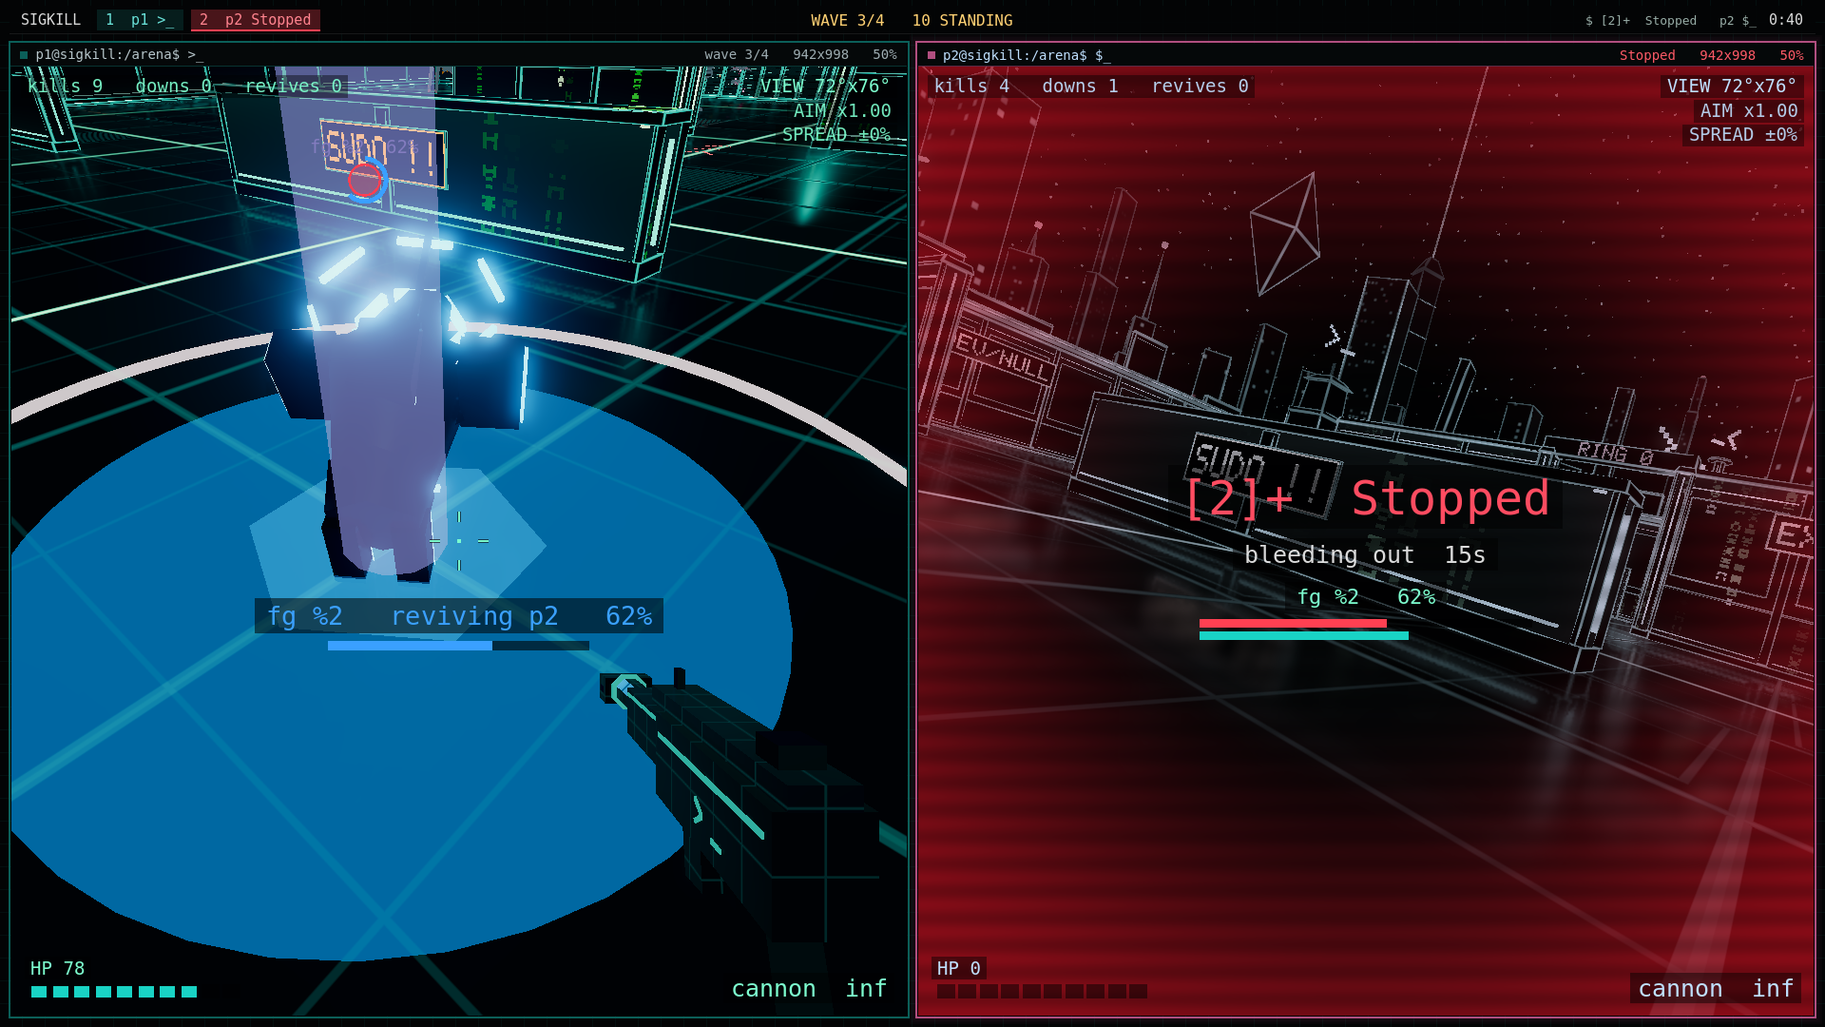
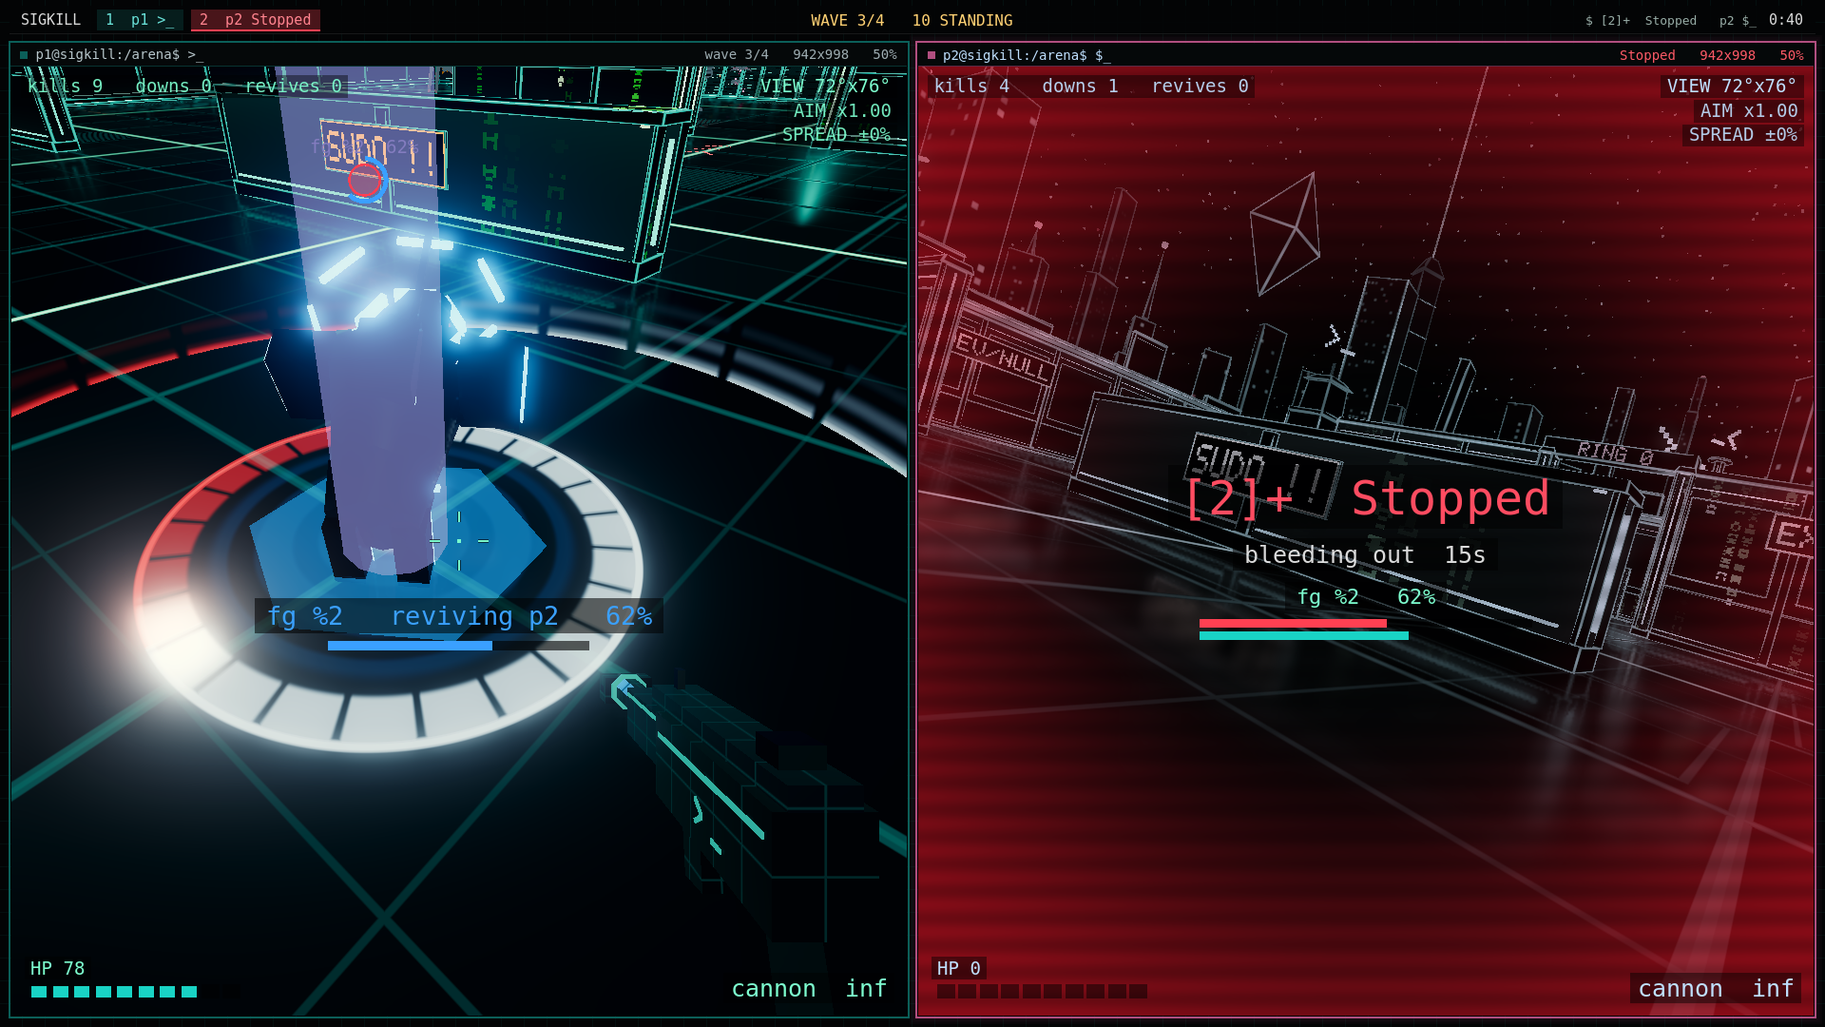
P2 item 4: W6's revive ring remade: segments lit round, a curtain of light, red while nobody is on it
WHAT: scripts/coop/coop_body.gd: the revive's growing disc of rings (a flat floor of colour from inside it) becomes a band of 24 segments round the ring's edge, lit round clockwise from the body's front as far as the revive has come in the body's bright light, the leading segment flaring white, the rest pulsing in the down's red; a crisp unbroken rim on the band's edge; a low curtain of light (0.5 m) rising off the ring, stripes climbing it, its foot lit hard as a lip, lit over the same arc. Inside, the floor stays nearly dark: a small core under the body, faint rings running in only while a partner revives. Both meshes are the ring's full size always and stand at 0%. Step 70 (tests/coop_test.gd): W7's fold-in check rewritten for the new ring (segments, climbing curtain, never scaled, progress shown matching the revive), plus a check that an idle ring still stands, full size, lit nowhere. Re-shot on the private display, demo data: w6-revive, w6-down.
WHY: the producer's P2 list, item 4: the revive disc was flat and dull; it now has shape, motion and a fill that reads at a glance, near, far or standing in it.
DECIDED: segments and a curtain over a growing disc; the curtain's lip and the band's rim added after the first pass read weaker from 11 m than the old torus; lit light at 0.7 so bloom keeps the player's colour.

LR-T: p2, polish, w6, coop, revive, ring, shader
LR-D: coop, shaders, tests, docs
LR-K: p2-item-4, revive-ring, coop-down

Changed region(s): [[0.0, 0.3667, 0.4375, 0.9472], [0.25, 0.275, 0.5, 0.4889], [0.0, 0.3056, 0.1875, 0.4278]]

diff --git a/README.md b/README.md
@@ -154,7 +154,7 @@
     - **The HUD:** a VOICE chip under the round's lines (listening, with a ripple of bars, and the honest line: lines arrive a few seconds after they are said; or off, and why), and a toast for each command heard, in the colour of what it sets off, with what came of it. It shows a command's name, never a word of what was said: no line is kept, logged, shown or sent anywhere, your AI included. Talk from a TV or other media is skipped, and a line that begins "Larry, tell" is never a command.
     - **Try it with no transcript program:** Esc, **Voice commands** plays the arena with a made-up feed of lines, so you can watch it work.
   - **the first polish pass (P1):** the cover drone keeps its recharge through an arena reload (R no longer hands a fresh one straight back), and a match started from a mission, the folder map, the theme shift, keybind gunplay or the packet tracer now reloads into the plain arena instead of leaving its district and daemons standing under the match.
-  - **the second polish pass (P2), under way:** one item at a time, what you see first: this page's stale tags gone; W3's Latte zombie outlined in the theme's red under a light theme, so it no longer melts into the paper; the packet tracer's banners stacked at the top of the screen, each on its own plate and two at most, so INTERCEPTED never sits over the man in the middle you are meant to shoot; then, W6's revive disc and M7's bolts; then the relay's code for every protocol since 10, proven on this machine only (nothing goes live until Fred says so).
+  - **the second polish pass (P2), under way:** one item at a time, what you see first: this page's stale tags gone; W3's Latte zombie outlined in the theme's red under a light theme, so it no longer melts into the paper; the packet tracer's banners stacked at the top of the screen, each on its own plate and two at most, so INTERCEPTED never sits over the man in the middle you are meant to shoot; the co-op revive ring remade as a ring of segments with a low curtain of light, lit round as the revive fills and red while nobody is on it, readable from across the arena or standing in it; then, W6's revive disc and M7's bolts; then the relay's code for every protocol since 10, proven on this machine only (nothing goes live until Fred says so).
   - **the ruins (C36):** the places the missions happen in, all made in code. Decaying server-farm and filesystem ruins:
     - rack towers toppling and half sunk into the abyss, their status lights dying;
     - cut cables swinging and sparking, cracked floors glowing from below, holes into the void;
@@ -2564,7 +2564,7 @@ Status from `git log`. Hashes are the commits that finished each chunk.
 | Website, teaser and docs | T1 the teaser's footage: real in-game clips on demo data, rendered with Movie Maker by `tools/trailer_capture.sh` ([docs/TRAILER.md](docs/TRAILER.md); `b2392e8`, `f17ae86`, `bb82508`, `1087887`) · the 70 second edit and its soundtrack (the producer's) for playsigkill.com · D1 the PRD rewritten as the entire, current PRD (v0.3), this README's "Where we are", three community credits (`e1e658d`, `e79b9e5`) | 🟡 T1 footage and D1 done; the edit, the music and the site are the producer's |
 | M5 Your machine is the world | Filesystem maps, process enemies, theme levels, keybind gunplay, voice commands, packet tracer arena, split-screen co-op · C43 Audit Trail visor, built (`f6d5f8d`) · C44 the in-game credits roll, built (`861b015`, `4d3f012`) · W1 live process enemies, built (`3e74f6c`, `02d3441`) · W2 to W4 built · W5 the packet tracer arena, built (`6cf0855`, `a33539a`, `defffa7`) · W6 split-screen co-op, built (`05e9543`, `9de06b0`, `1357bf6`) · W7 voice commands, built (`3bc895a`, `900480c`, `dc81af9`, `102616f`) | 🟢 C43, C44 and W1 to W7 done: all of M5 |
 | Polish | P1 the first polish pass after M5: the cover drone's recharge kept through a reload, a match started from a mission or a world mode reloading into the plain arena, step 72, this README brought up to date (`3eae2f6`, `82f8237`, `a589d0a` and the docs after them) | ✅ Done |
-| Polish | P2 the second polish pass: the README's stale tags, W3's Latte zombie, W5's banners, W6's revive disc, M7's bolts and flash, the relay's code for protocols 10 to 19 (loopback only), the most visible small known issues | 🟡 In progress: the README, the Latte zombie and the packet tracer's banners done |
+| Polish | P2 the second polish pass: the README's stale tags, W3's Latte zombie, W5's banners, W6's revive disc, M7's bolts and flash, the relay's code for protocols 10 to 19 (loopback only), the most visible small known issues | 🟡 In progress: the README, the Latte zombie, the packet tracer's banners and the revive ring done |
 | M6 Story campaign | C34 story bible, locked by Fred on 2026-10-30 ([docs/STORY.md](docs/STORY.md), `a80a229`, `431e41a`) · C38 the opener's first 35 seconds on demo data: the fake crash, the fake terminal, the typed lines (`bda0ecc`, `ee41bbd`, `0f94ca7`) · C39 the opener's real-data reader, opt-in and read-only, and wide characters (`8c74319`, `a349d1a`) · C40 the shrink-away reveal and the fall through your directory tree as a city (`e6d0b73`, `2d4466e`) · C41 the AI link and the copy of you named `~`: the HUD alive, your AI live or the scripted guide, the copy walking out of the pit wearing your user name (`7106cec`, `14c7c2b`, `59095b3`) · C42 the `kill -9` forge, the first kill, the title slam, the score, the skip logic and the first launch, and the daemons' voices (`77254c0`, `e04dffe`, `e31bd68`, `ffa5eaa`) · C35 the mission framework: missions as data, the runner, the objective HUD, the Missions screen, the weapon handout and the saves, mission 1 as a first cut (`a724aae`, `aee2e1c`) · C36 the cyberpunk ruins art kit: seeded districts of rack towers, monoliths, cables and signs, three registers that change the world, mission 1 standing in its ruins (`31ef6f0`, `0650508`, `63b99bc`) · C37 mission 1, `login`, end to end: its own finite daemons out of spawn vents, the pack and its elite, the white ICE wall, the breach and the drop into the rain, the gate on what the campaign has handed over, checkpoints (`acfe8b4`, `0ace580`, `fa6e436`) · M2 mission 2, `defunct`, end to end in its own district, the closed terminals: zombies asleep in the rain, the queue at a dead storefront, the parent sealed behind its guard and every zombie threaded to it, the reap; the C37 leftovers (`4958fcd`, `76ddd67`, `149cec5`, `a11c96b`, `f2d5ba6`) · M3 mission 3, `while true`, end to end in its own district, the cache lines: a field of walls that rewrite themselves, runaway swarms and the fork storm, grep and pipe handed over, the loop's four cores forking as the cache fills, code-rain vision unlocked for the beat that needs it, the loop broken and the rain stopped (`6a63d1b`, `f4615bd`, `5a42477`, `042d8a0`; the gate's two test-only fixes `1949e4c`, `8251281`) · M4 mission 4, `permission denied`, end to end in its own district, the records vault: a pristine guarded hall, its own white and hunter ICE through the director, the ICEbreakers and chmod 000 taught, the record with its PID redacted, the escalation and the lights' stutter (`b7f8e4d`, `631d7a4`, `57fcc23`, `721f2a8`, `9fb1433`, `2f94a4d`, `d3ecf13`, `3f90a61`) · M5, M6 and M7: missions 5 to 7, the whole campaign (`310122c`, `452b7ac`, `8457dd1`, `ab556ed`, `9cf6be1`) | 🟢 C34 locked; the opener done (C38 to C42); all seven missions done (C35 to C37, M2 to M7) |
 
 Before M0 came the scaffold (`d086489`), and the decision that the player's AI is the Omarchy default agent landed as its own docs commit (`43b1f74`).
@@ -2898,10 +2898,10 @@ Real in-game captures, demo data only (A1, A2b, A3, A4, C27b, C28, A5, I1, I2, I
   </tr>
   <tr>
     <td align="center" width="50%"><img src="docs/media/w6-trade.png" alt="Player 1's tile narrow at 35% with VIEW 54 degrees, AIM x1.35, SPREAD -45%; player 2's wide at 65% with VIEW 87 degrees, AIM x0.80, SPREAD +25%"><br><em>The trade: a smaller tile aims faster and steadier, a bigger one sees more.</em></td>
-    <td align="center" width="50%"><img src="docs/media/w6-down.png" alt="Player 2's tile drained to grey and red with [2]+ Stopped and bleeding out; in player 1's tile a red beacon rises over player 2 across the floor, a ring of light round them"><br><em>[2]+ Stopped.</em></td>
+    <td align="center" width="50%"><img src="docs/media/w6-down.png" alt="Player 2's tile drained to grey and red with [2]+ Stopped and bleeding out; in player 1's tile a red beacon rises over player 2 across the floor, a ring of red segments round them, its edge standing up off the floor"><br><em>[2]+ Stopped.</em></td>
   </tr>
   <tr>
-    <td align="center" width="50%"><img src="docs/media/w6-revive.png" alt="Player 1 standing over the downed player 2, the ring under them filling, fg %2 and the revive's progress on the screen"><br><em>fg %2: the partner standing close brings them back.</em></td>
+    <td align="center" width="50%"><img src="docs/media/w6-revive.png" alt="Player 1 standing in the downed player 2's revive ring: its segments lit round in player 2's light as far as the revive has come, the rest still red, a crisp rim and a low curtain of light rising off it, fg %2 and the progress on the screen"><br><em>fg %2: the partner standing close brings them back.</em></td>
     <td align="center" width="50%"><img src="docs/media/w6-boss.png" alt="The last wave: the pegged core hanging over the arena, both players firing at it, its bar in the top bar"><br><em>The boss wave, for two.</em></td>
   </tr>
   <tr>

diff --git a/docs/PRD.md b/docs/PRD.md
@@ -237,7 +237,7 @@ The guide is the player's own AI: the coding agent they already picked in Omarch
     - **Two players, one machine:** player 1 is the game's own player, keyboard and mouse, every key as ever (only the right stick is off for it while the mode runs: the pad is player 2's). Player 2 is a second player made by the mode (scripts/coop/coop_hunt.gd; scenes/player.tscn in seat 2) reading only its own actions (scripts/coop/coop_input.gd), made in the input map as the mode begins and taken out as it ends: a gamepad (any pad: the sticks move and look, RT fires, LT aims, A jumps, B slides, X reloads, Y and the d-pad change weapon) and a keyboard fallback on the numeric keypad (8 4 5 6 move, 7 9 turn, / * look up and down, 0 fires, Enter jumps, 1 next weapon, 2 reload, 3 aim). The tests drive player 2 with simulated events; no real pad is ever needed.
     - **The tiles** (scripts/coop/coop_screen.gd), the game's own, inside its one window: no compositor call, no window manager, no new OS window. Two SubViewports draw the arena's one World3D, each through a camera that takes its player's camera every frame (place, look, field of view, the shot jolt), the window's own 3D view off while the split stands (the world drawn twice, never three times). Styled as Omarchy's Hyprland draws windows: a 10 px outer gap and an 8 px gap between them (at 1080 lines), a thin border on each (the active tile's, the last to resize or flip, glowing in its player's colour, the other's dim; a downed player's pulsing red), a terminal-style title bar on each (`p1@sigkill:/arena$ >_` with its cursor blinking, the wave or `Stopped`, the tile's size in pixels and its share), and a bar across the top as a desktop's bar (the two players as workspace pills, the wave and how many stand or the boss's bar, the run's last line of job control, the time).
     - **The trade:** each player grows or shrinks their own tile a step (7.5% of the room; `=` and `-` for player 1, RB and LB or the keypad's + and - for player 2), with a 1.2 s cooldown each, between 35% and 65%; either flips the split between side by side and stacked (`0`; Back or the keypad's .), with a 2 s cooldown the two share. A resize settles in 0.32 s with a small overshoot, a flip in 0.45 s, the tile washing in its player's colour and a swish. A tile is a window onto the world at the same zoom as the whole screen (its camera's vertical field the screen's over its share of the height), so a bigger tile sees more and a smaller less. The smaller pays back in aim: at 35% look speed x1.35 and spread and recoil x0.55; at 65% x0.80 and x1.25; even at 50% (linear between). Each tile shows its own: VIEW (degrees across and down), AIM, SPREAD.
-    - **Downs and revives:** a player's health at 0 is a down, not a death: `[2]+  Stopped` (bash's job control), the player cannot move or shoot, its view sinks to the floor and leans, its tile drains to a cold grey with a red pulse at the edges and rolling scanlines, its body falls to its knees and over, a ring of light (2.4 m) round it on the floor and a beacon of light rising through walls; the partner's tile marks it (through walls, clamped to the tile's edge, with the distance). The partner standing within 2.4 m for 2.6 s revives it (`fg %2`, `[2]  Continued`; the ring filling, the progress falling back at 0.8 a second while the partner steps away), back at 40 health, protected 1.5 s. Left 25 s, a downed player bleeds out: out (derezzed) until the wave ends. Both down or out at once: wiped, the run over. A wave cleared brings everyone back, full.
+    - **Downs and revives:** a player's health at 0 is a down, not a death: `[2]+  Stopped` (bash's job control), the player cannot move or shoot, its view sinks to the floor and leans, its tile drains to a cold grey with a red pulse at the edges and rolling scanlines, its body falls to its knees and over, a ring (2.4 m) round it on the floor, its segments red and a low curtain of light rising off it (P2), and a beacon of light rising through walls; the partner's tile marks it (through walls, clamped to the tile's edge, with the distance). The partner standing within 2.4 m for 2.6 s revives it (`fg %2`, `[2]  Continued`; the ring lighting round segment by segment in the body's light, P2, the progress falling back at 0.8 a second while the partner steps away), back at 40 health, protected 1.5 s. Left 25 s, a downed player bleeds out: out (derezzed) until the wave ends. Both down or out at once: wiped, the run over. A wave cleared brings everyone back, full.
     - **The run:** the arena's PvE hunt for two: four waves of the arena's kinds (rogue.d, zombies, runaways), each the solo wave's count times 1.6 rounded up (7, 10, 13, then the boss and 6), forking in at the floor's far spots, every one relentless; the last wave's boss a core the two of them have pegged (W1's pegged core, 900 health, hotter as it is hurt). A 4 s countdown before the first wave, a 5 s break between. The shared results card: each player's kills (each credited to the player whose hit took it down), downs, revives and accuracy (their own hits over their own shots), the waves and the time; Enter (or the pad's A) runs it again.
     - **The players' look** (scripts/coop/coop_body.gd), each its own figure so the two never read as copies, and neither as `~`'s (dark, the prompt lit red): player 1 teal (the player's own) with `>_`, slim, a high collar, light bars on its shoulders and two long coat tails swinging as it runs, its hexagon head pointy-top; player 2 azure (`#3aa0ff`; ICE, the one colour near it, stands down in co-op) with `$_`, broader, square pauldrons, a turning halo of six bars, a mast with a blinking tip. Both light-edged armour, a hex of their light on the floor, a small light of their own, a rifle along their aim, a name tag through walls. Each body on its own render layer, so its own tile never draws it; each player's held weapon model drawn only in its own tile.
     - **Co-op is weapons only:** the abilities stay off for both players (SIGSTOP would slow the one clock both share); the Audit Trail visor is player 1's (I), drawn in player 1's tile only (its HUD inside that tile, its lines on a layer only that tile draws). Player 2's kills count toward its own sudo count, never toward player 1's unlocks. The sound is heard from player 1's place (one pair of speakers).
@@ -685,7 +685,7 @@ Statuses are taken from `git log` (2026-11-02, after P1): **done**, **in progres
 | Chunk | What | Status | Commits |
 |---|---|---|---|
 | P1 | The first polish pass: the cheap player-facing known issues fixed where they break (the cover drone out when the arena reloads starts its recharge; a match started from a mission, the folder map, the theme shift, keybind gunplay or the packet tracer reloads into the plain arena, its district gone), each pinned by a check in step 72 (tests/polish_test.gd, 14 checks); the README brought up to date (the game as built, every status, flag and step); the rest of the known issues audited, each marked fixed or open with its reason (docs/DESIGN.md, State). | done | `3eae2f6`, `82f8237`, `a589d0a` and the docs after them |
-| P2 | The second polish pass, one item at a time, player-facing first: (1) the README's stale "new in" tags gone, every mode's try-it line checked; (2) W3's Latte zombie; (3) W5's INTERCEPTED banners; (4) W6's revive disc; (5) M7's bolts and refused-hit flash; (6) the relay code for protocols 10 to 19, proven on loopback only (code only: nothing deployed); (7) the most visible small known issues. | in progress: (1) to (3) done | see docs/DESIGN.md State, "P2 as built" |
+| P2 | The second polish pass, one item at a time, player-facing first: (1) the README's stale "new in" tags gone, every mode's try-it line checked; (2) W3's Latte zombie; (3) W5's INTERCEPTED banners; (4) W6's revive disc; (5) M7's bolts and refused-hit flash; (6) the relay code for protocols 10 to 19, proven on loopback only (code only: nothing deployed); (7) the most visible small known issues. | in progress: (1) to (4) done | see docs/DESIGN.md State, "P2 as built" |
 
 **M6 Story campaign** (5.6, 5.7). The opener chunks are built after C10 boot and C7 derezz exist.
 

diff --git a/docs/DESIGN.md b/docs/DESIGN.md
@@ -986,3 +986,5 @@ Native first-person shooter for Omarchy (Arch + Hyprland). You are the nixfred >
   - (3) W5's man-in-the-middle banners: the packet tracer's HUD (scripts/packets/packet_tracer_hud.gd) draws one banner stack at the top of the screen (from 16% down): the ride's own state first (INTERCEPTED while a packet is held, TIMEOUT with the burst's key, RST, BURST), then the event banner (a hop, a misroute, a lost packet, a retransmit) under it, each on its own plate, two at most, the second a step smaller; the same head is never stacked twice. Before it, the ride's line was drawn with no plate at 30% down, right over the man in the middle and its own label. The panel's ride line says HELD (INTERCEPTED is said once, on the stack), and a panel line too long for the panel is shrunk to fit (to 10 pt at the least) instead of cut off ("50% INTERCEP", "edge-b"). Pinned in step 69 (tests/packet_tracer_test.gd), beside the interception it needs: the stack's plates never over each other or the crosshair, and the ride line fitting whole. Re-shot: w5-mitm, w5-timeout, w5-lost and w5-stale (their banners moved); w5-ride, w5-drop and w5-960 show no banner and are unchanged.
     - Decided (ours): the checks for this item live in step 69, not step 73, because only that test plays the route up to a held packet; step 73 would have to play it again.
     - Decided (ours): a ride's TIMEOUT stays said twice on purpose: the world's label marks where the link will tear, a little ahead of the rider (W5), and the plate gives the countdown and the burst's key.
+  - (4) W6's revive ring (scripts/coop/coop_body.gd): remade from a disc of rings that grew from the middle with the revive (a flat floor of colour from inside it, W7's fold-in not enough) into one shape that reads at a glance: a band of 24 segments round the ring's edge on the floor, lit round clockwise from the body's front as far as the revive has come, in the body's bright light, the leading segment flaring white, the rest pulsing in the down's red; a crisp unbroken rim on the band's outer edge; a low curtain of light (0.5 m) rising from the ring, stripes climbing it and its foot lit hard as a lip, lit over the same arc. Inside the band the floor stays nearly dark: a small core under the body, and faint rings running in toward it only while a partner revives. Both meshes are the ring's full size always (only the light moves, so where to stand never changes) and stand at 0% too. Pinned in step 70 (tests/coop_test.gd): W7's fold-in check rewritten for it (the band's segments and the curtain's climbing stripes, the band never scaled, the progress shown matching the revive's), and a new check that a ring nobody revives still stands, full size, lit nowhere. Re-shot: w6-revive and w6-down (the others show no downed player; their pixel differences are the shot's timing, along every edge).
+    - Decided (ours): segments and a curtain, not a growing disc: a loading ring is read by its arc at any distance, and a curtain has a silhouette where a flat band goes thin at a grazing angle (the first pass's band read weaker from 11 m than the old thin torus; the curtain's lip and the band's rim fixed that). The lit light is the body's own (player 2's azure for player 2), at 0.7 so bloom keeps its colour rather than washing it white.
